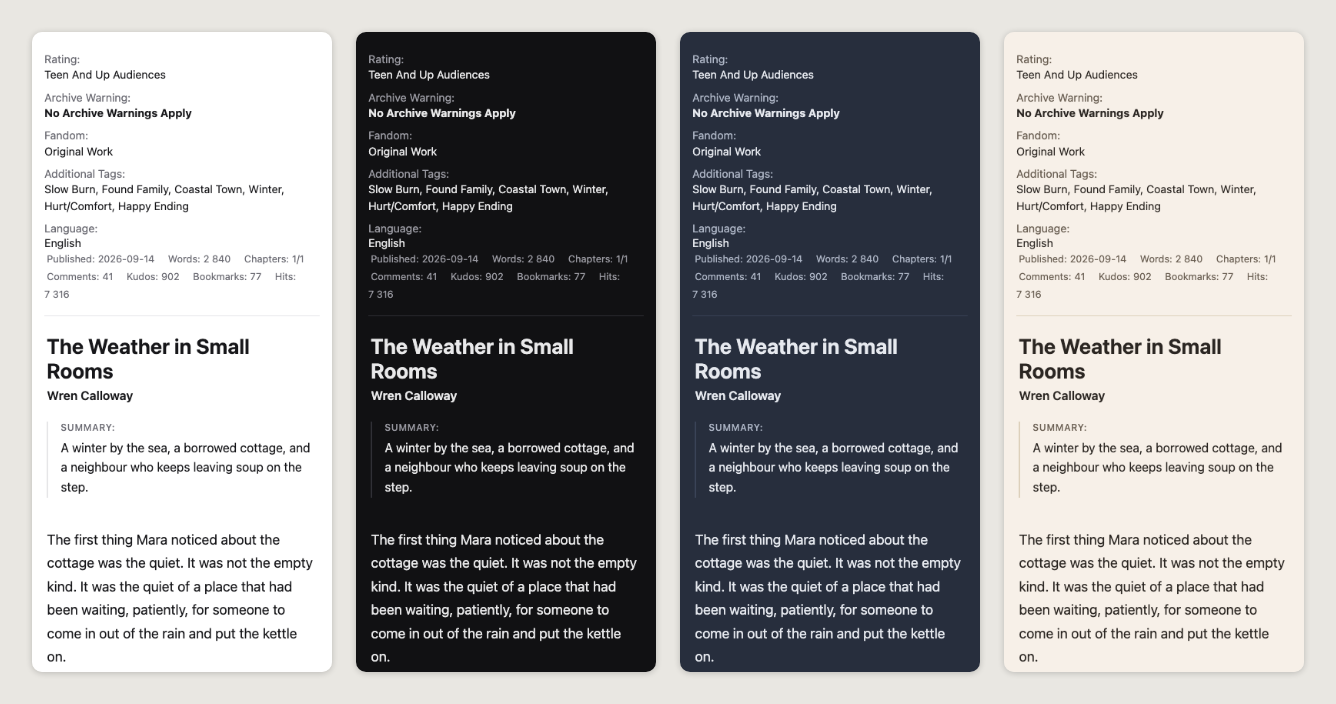
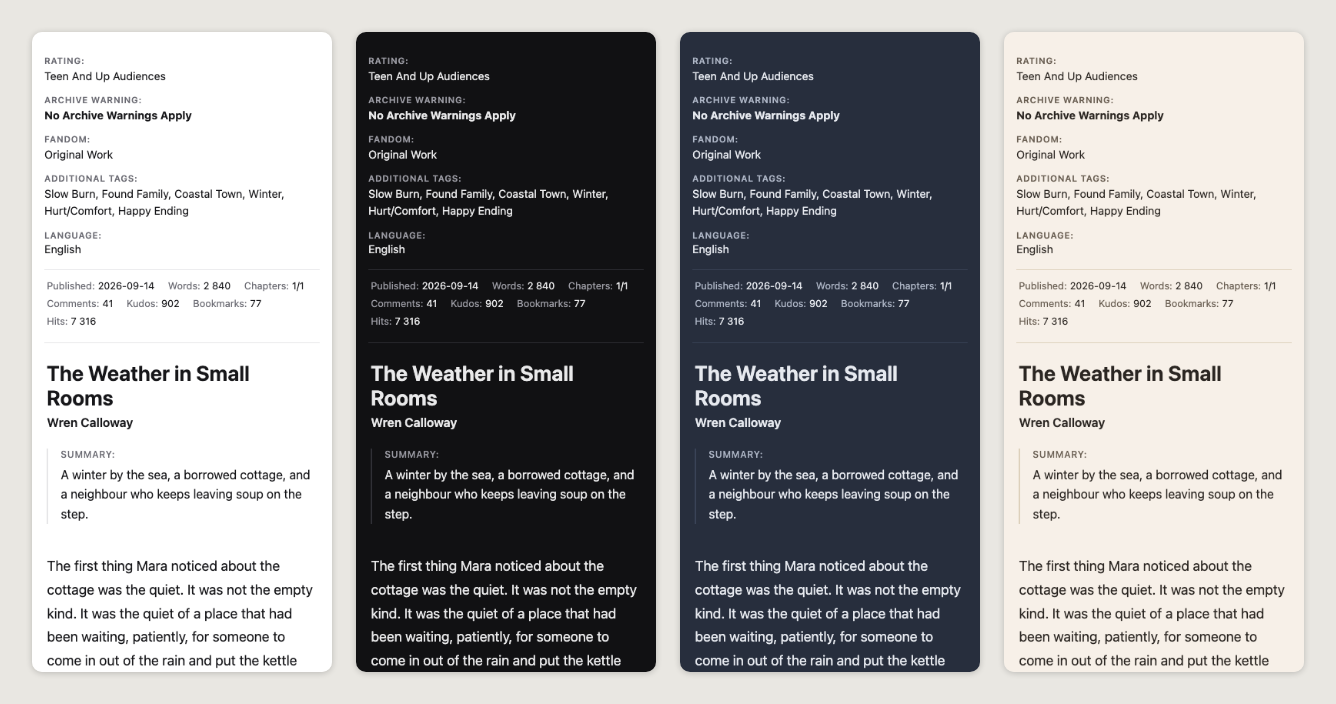
Version 0.7.2

diff --git a/skin/archive-neue-skin-contrast.css b/skin/archive-neue-skin-contrast.css
@@ -1,4 +1,4 @@
-/* Archive Neue skin, high contrast, version 0.7.1. Generated by build-skin.py; edit the template instead.
+/* Archive Neue skin, high contrast, version 0.7.2. Generated by build-skin.py; edit the template instead.
    Same layout as the light skin, with black text and darker greys and lines. For any small screen.
    Media: 42em covers phones; 62em also covers tablets and e-readers; leave it empty for every screen. */
 body { background: #ffffff !important; color: #000000 !important; margin: 0 !important; font-family: -apple-system, system-ui, "Helvetica Neue", sans-serif !important; font-size: 16px !important; font-weight: 400 !important; line-height: 1.55 !important; -webkit-text-size-adjust: 100% !important; }

diff --git a/skin/archive-neue-skin-light.css b/skin/archive-neue-skin-light.css
@@ -1,4 +1,4 @@
-/* Archive Neue skin, light, version 0.7.1. Generated by build-skin.py; edit the template instead.
+/* Archive Neue skin, light, version 0.7.2. Generated by build-skin.py; edit the template instead.
    Media: only screen and (max-width: 42em) for phones, or (max-width: 62em) for tablets too; leave it empty for every screen */
 body { background: #ffffff !important; color: #17171a !important; margin: 0 !important; font-family: -apple-system, system-ui, "Helvetica Neue", sans-serif !important; font-size: 16px !important; font-weight: 400 !important; line-height: 1.55 !important; -webkit-text-size-adjust: 100% !important; }
 html { background: #ffffff !important; }

diff --git a/skin/archive-neue-skin-paper.css b/skin/archive-neue-skin-paper.css
@@ -1,4 +1,4 @@
-/* Archive Neue skin, paper, version 0.7.1. Generated by build-skin.py; edit the template instead.
+/* Archive Neue skin, paper, version 0.7.2. Generated by build-skin.py; edit the template instead.
    Media: only screen and (max-width: 42em) for phones, or (max-width: 62em) for tablets too; leave it empty for every screen */
 body { background: #f7f0e8 !important; color: #2b2622 !important; margin: 0 !important; font-family: -apple-system, system-ui, "Helvetica Neue", sans-serif !important; font-size: 16px !important; font-weight: 400 !important; line-height: 1.55 !important; -webkit-text-size-adjust: 100% !important; }
 html { background: #f7f0e8 !important; }

diff --git a/skin/archive-neue-skin-slate.css b/skin/archive-neue-skin-slate.css
@@ -1,4 +1,4 @@
-/* Archive Neue skin, slate, version 0.7.1. Generated by build-skin.py; edit the template instead.
+/* Archive Neue skin, slate, version 0.7.2. Generated by build-skin.py; edit the template instead.
    Media: only screen and (max-width: 42em) for phones, or (max-width: 62em) for tablets too; leave it empty for every screen */
 body { background: #272e3d !important; color: #e6e9ef !important; margin: 0 !important; font-family: -apple-system, system-ui, "Helvetica Neue", sans-serif !important; font-size: 16px !important; font-weight: 400 !important; line-height: 1.55 !important; -webkit-text-size-adjust: 100% !important; }
 html { background: #272e3d !important; }

diff --git a/skin/archive-neue-skin-dark.css b/skin/archive-neue-skin-dark.css
@@ -1,4 +1,4 @@
-/* Archive Neue skin, dark, version 0.7.1. Generated by build-skin.py; edit the template instead.
+/* Archive Neue skin, dark, version 0.7.2. Generated by build-skin.py; edit the template instead.
    Media: only screen and (max-width: 42em) for phones, or (max-width: 62em) for tablets too; leave it empty for every screen */
 body { background: #111113 !important; color: #e9e9ea !important; margin: 0 !important; font-family: -apple-system, system-ui, "Helvetica Neue", sans-serif !important; font-size: 16px !important; font-weight: 400 !important; line-height: 1.55 !important; -webkit-text-size-adjust: 100% !important; }
 html { background: #111113 !important; }

diff --git a/archive-neue.user.css b/archive-neue.user.css
@@ -1,7 +1,7 @@
 /* ==UserStyle==
 @name           Archive Neue
 @namespace      https://github.com/wordsandpics/archive-neue-ao3
-@version        0.7.1
+@version        0.7.2
 @description    A minimal, typography-first reading theme for Archive of Our Own (AO3). Airy and discreet. Light, dark, slate, paper or follows your system.
 @author         wordsandpics
 @homepageURL    https://github.com/wordsandpics/archive-neue-ao3

diff --git a/README.md b/README.md
@@ -18,7 +18,7 @@ The style is also listed on [userstyles.world](https://userstyles.world/style/31
 
 Stylus checks for new versions on its own. Other style extensions are untested and may not read the file or its settings.
 
-**Settings:** click the Stylus icon, then the gear next to Archive Neue. You can change the colour theme (follow system, light, dark, slate or paper), reading font, interface font, reading size, line height, text column width and accent colour.
+**Settings:** click the Stylus icon, then the gear next to Archive Neue. You can change the colour theme (follow system, light, dark, slate or paper), reading font, interface font, reading size, line height, text column width and accent colour. There is also a "Collapse long tag lists (work page)" option, off by default.
 
 **Fonts:** the style loads Bitter (reading) and Instrument Sans (interface) from Google Fonts, so your browser contacts Google when an AO3 page loads. Both fonts are open-licensed. To use other fonts, change the font names in the settings (and the `@import` line at the top of the file if the font comes from Google Fonts).
 

diff --git a/CHANGELOG.md b/CHANGELOG.md
@@ -1,5 +1,14 @@
 # Changelog
 
+## 0.7.2
+- **Tags in work lists:** warnings, relationships and characters, and additional tags now look different from each other, with a little space between the groups (userstyle and skins).
+- **Work info on the skins:** easier to scan, with smaller labels and a thin line above the stats.
+- **Visited links:** hovering one keeps the theme's link colour (it turned near-black on dark themes).
+- **Guest comments:** a small round avatar, like everyone else's.
+- **Chapter index:** "Go" looks like a button.
+- **Skin menus:** the header menus stay open when you move the mouse into them, are no longer covered by page links, and fit their text.
+- **Skin fixes:** the Skins page picture no longer covers titles, the comment box has no extra line, and a chapter's summary sits a little below its title.
+
 ## 0.7.1
 - **Stats page:** the sort buttons are clickable again, and "Sort By" lines up with them.
 - **Search box:** the text keeps the theme colour while you type (it turned dark grey on dark themes).
